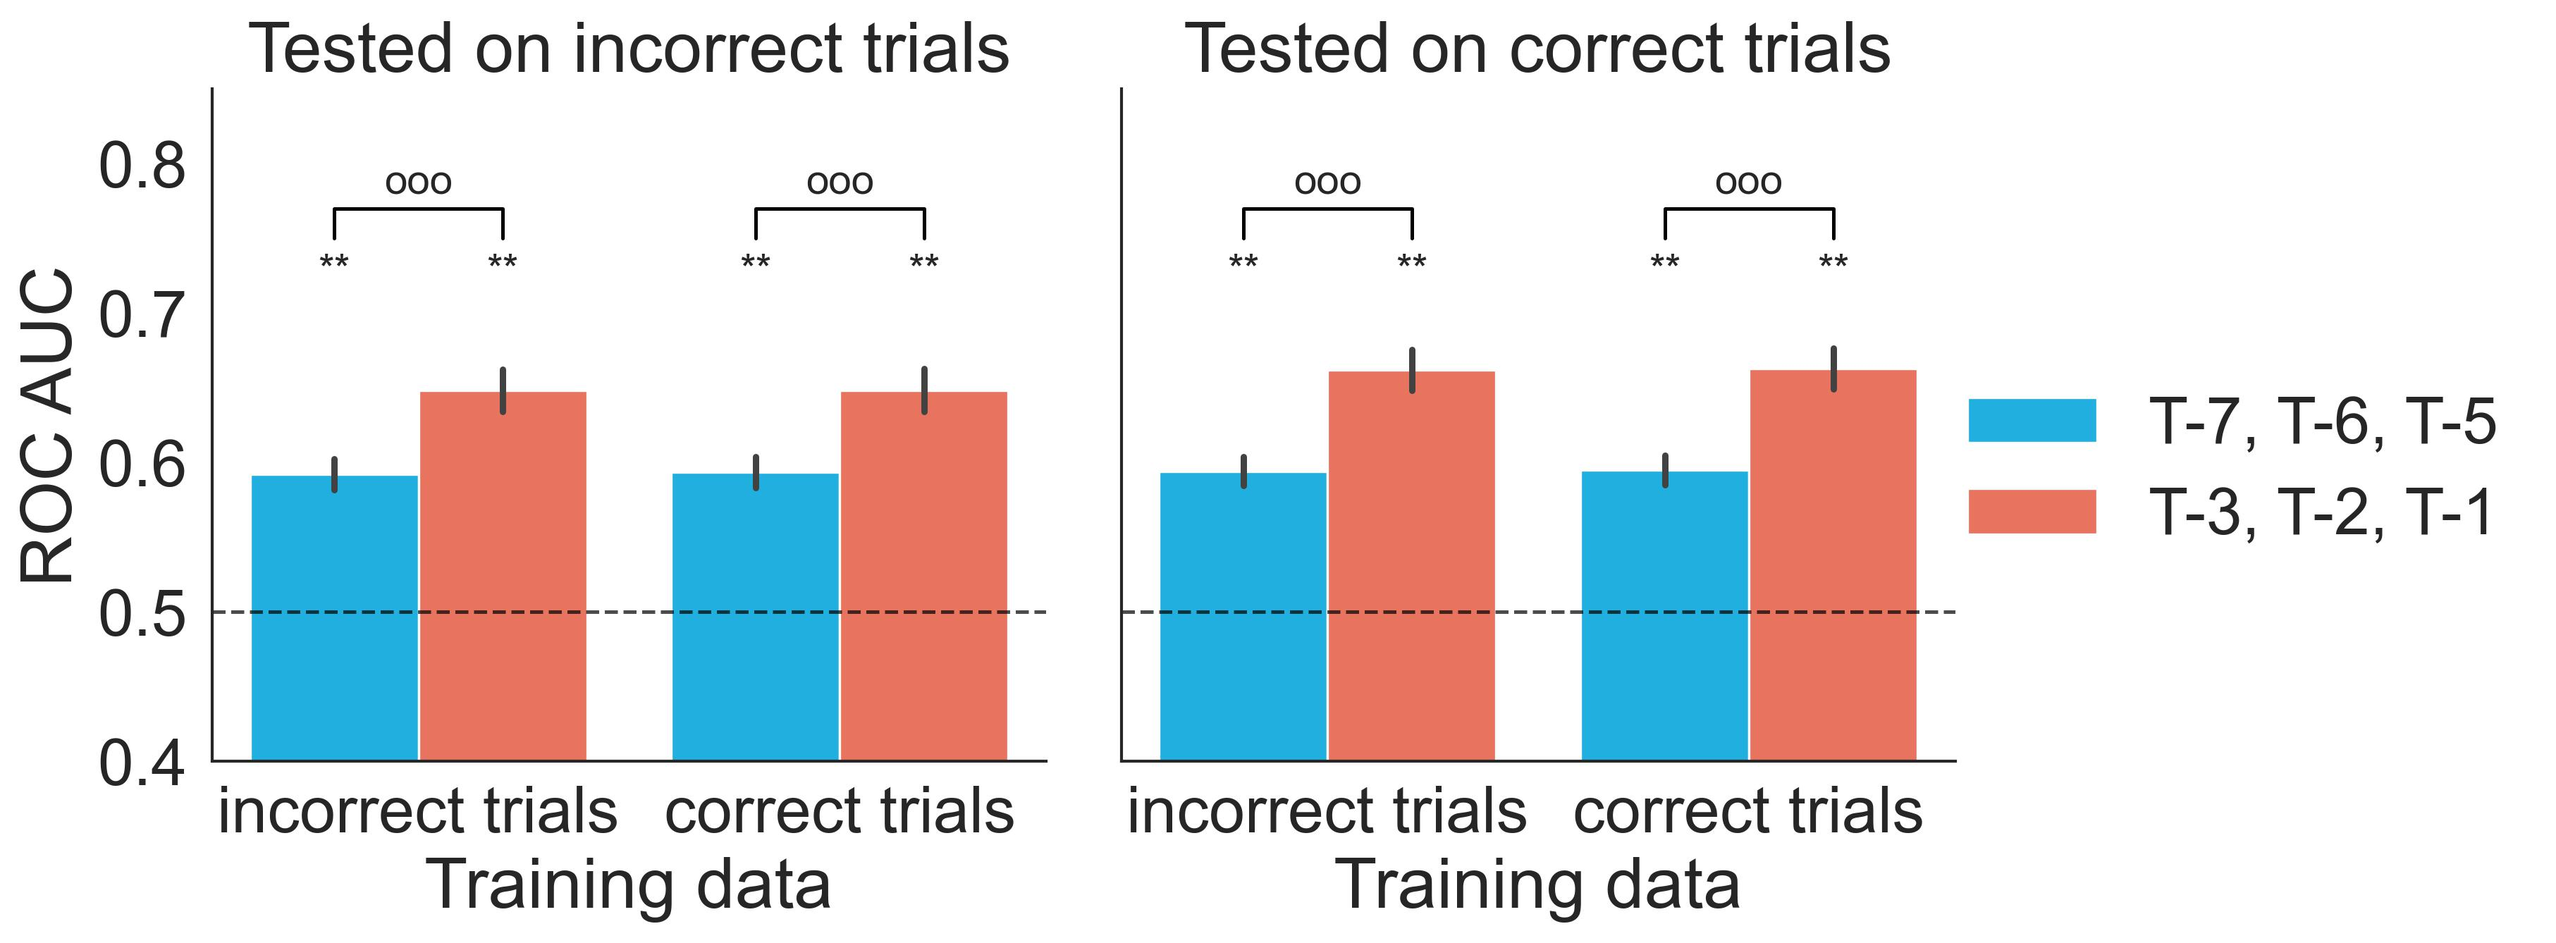
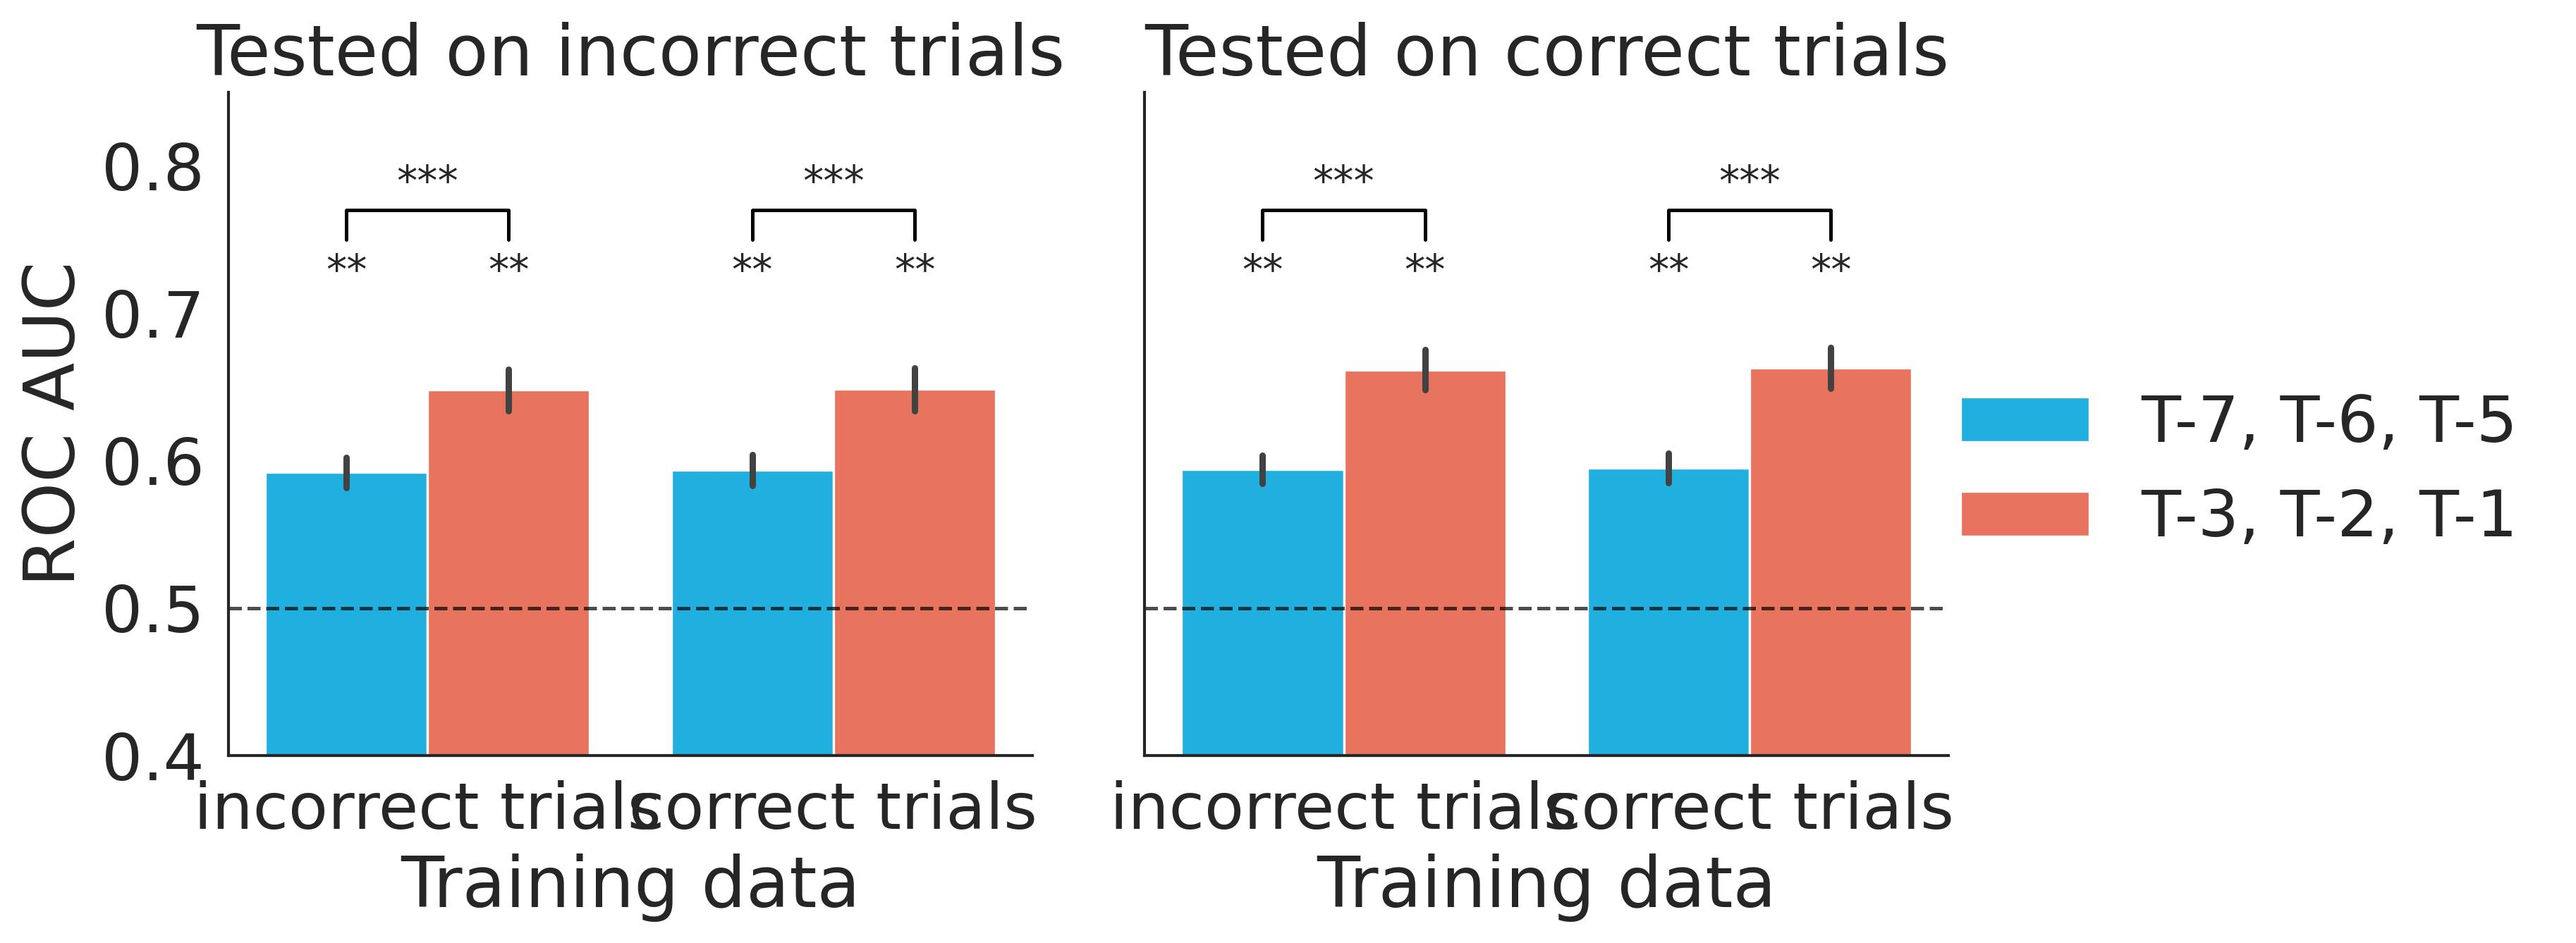
update

diff --git a/scripts/5.1.1.plot_results_review.py b/scripts/5.1.1.plot_results_review.py
@@ -10,7 +10,6 @@ import os,gc,re
 import numpy as np
 import pandas as pd
 import seaborn as sns
-import seaborn.objects as so
 
 from glob import glob
 from matplotlib import pyplot as plt
@@ -24,6 +23,13 @@ palette = ['deepskyblue','tomato']
 x_order = ['confidence','accuracy',
            'confidence-accuracy','RT',
            'confidence-RT','all']
+feature_type_dict = {'confidence':'Confidence',
+                     'accuracy':'Accuracy',
+                     'confidence-accuracy':'Confidence-accuracy',
+                     'RT':'RT',
+                     'confidence-RT':'Confidence-RT',
+                     'all':'All'}
+x_map_order = [feature_type_dict[item] for item in x_order]
 model_names = ['Support Vector Machine',
                'Random Forest',
               #'Recurrent Neural Network',
@@ -37,7 +43,9 @@ ylim_dict = {'regression':(-.85,.5),
              'classification':(0,1.)}
 y_annotation = dict(regression = .45,
                     classification = .875)
-
+figure_dir = '../figures/final_figures'
+if not os.path.exists(figure_dir):
+    os.mkdir(figure_dir)
 def get_model_type(x:str):
     """
     
@@ -339,7 +347,7 @@ def figure2(working_data_past:list,
                     [.75,.77,.77,.75],
                     color = 'black',
                     )
-            ax.annotate('ooo',
+            ax.annotate('***',
                         xy = (x_center,.78),
                         ha = 'center',
                         fontsize = 14,
@@ -528,9 +536,9 @@ def figure5(working_dir:str,
                 col_axes.annotate(row['stars'],
                                   xy = (x,.68),
                                   ha = 'center',
-                                  fontsize = 14)
+                                  fontsize = 18)
             for ii,row in df_paired_sub.reset_index().iterrows():
-                sign = row['stars'].replace('*','o') if '*' in row['stars'] else row['stars']
+                sign = row['stars'] if '*' in row['stars'] else row['stars']
                 col_axes.plot([ii - .2,
                                ii - .2,
                                ii + .2,
@@ -541,7 +549,7 @@ def figure5(working_dir:str,
                 col_axes.annotate(sign,
                                   xy = (ii,.78),
                                   ha = 'center',
-                                  fontsize = 14,
+                                  fontsize = 18,
                                   )
     g.savefig(os.path.join(figure_dir,
                            f'{figure_name} {model_name}.jpg'),
@@ -601,8 +609,6 @@ def reviewer_plot(working_dir:str,
     return g,df_score,df_stat
 
 if __name__ == "__main__":
-    figure_dir = '../figures/final_figures'
-    
     """
     plot the RF model results as the main results
     """
@@ -869,7 +875,267 @@ if __name__ == "__main__":
     g,df_clf,df_stat_clf = reviewer_plot(working_dir,
                                          major_type,
                                          'supfigure6.2')
-
-
-
-
+    df_clf_original = df_clf.copy()
+    df_stat_clf_original = df_stat_clf.copy()
+    """
+    figure 7
+    """
+    model_name_select = 'Random Forest'
+    df_clf = df_clf_original[df_clf_original['model_name'] == model_name_select]
+    df_clf['feature_type'] = df_clf['feature_type'].map(feature_type_dict)
+    df_stat_clf = df_stat_clf_original[df_stat_clf_original['model_name'] == model_name_select]
+    
+    g = sns.catplot(x = 'feature_type',
+                    y = 'score',
+                    order = x_map_order,
+                    row = 'target_data',
+                    row_order = CD_order,
+                    col = 'source_data',
+                    col_order = CD_order,
+                    kind = 'bar',
+                    aspect = 1.5,
+                    data = df_clf,
+                    )
+    (g.set_axis_labels('','ROC AUC',
+                       fontsize = 32)
+      .set(ylim = (0.4,1.0))
+      .set_titles(r'{col_name} $\rightarrow$ {row_name}',
+                  ))
+    for ax in g.axes.flatten():
+        ax.axhline(0.5,linestyle = '--',
+                   color = 'black',
+                   alpha = .7,
+                   )
+        ax.set_title(ax.get_title(),
+                     fontsize = 32)
+    for ax in g.axes[-1]:
+        ax.set_xticklabels(x_map_order,
+                           rotation = 90,
+                           fontsize = 24,
+                           )
+    xtick_order = list(g.axes[-1][-1].xaxis.get_majorticklabels())
+    for row_axes,row_condition in zip(g.axes,CD_order):
+        for col_ax,col_condition in zip(row_axes,CD_order):
+            df_stat_sub = df_stat_clf[np.logical_and(
+                        df_stat_clf['source_data'] == col_condition,
+                        df_stat_clf['target_data'] == row_condition,)]
+            for xtick_obj in xtick_order:
+                position        = xtick_obj.get_position()
+                xtick_label     = xtick_obj.get_text()
+                df_sub_sub      = df_stat_sub[df_stat_sub['feature_type'].apply(lambda x:x.lower()) == xtick_label.lower()]
+                
+                if '*' in df_sub_sub['stars'].values[0]:
+                    col_ax.annotate(df_sub_sub['stars'].values[0],
+                                    xy = (position[0],y_annotation[major_type]),
+                                    ha = 'center',
+                                    fontsize = 24)
+    g.savefig(os.path.join(figure_dir,
+                           'figure7.jpg'),
+              dpi = 300,
+              bbox_inches = 'tight')
+    """
+    comparison
+    """
+    feature_type_selected = 'Confidence'
+    n_permutation = int(1e4)
+    from joblib import Parallel,delayed
+    df_comparison = df_clf[df_clf['feature_type'] == feature_type_selected]
+    df_comparison['within_cross'] = df_comparison['source_data'] == df_comparison['target_data']
+    within = df_comparison[df_comparison['within_cross'] == True]['score'].values
+    cross  = df_comparison[df_comparison['within_cross'] != True]['score'].values
+    experiment_difference = within.mean() - cross.mean()
+    
+    def _process(within,cross):
+        data_concat = np.concatenate([within,cross])
+        np.random.shuffle(data_concat)
+        new_within = data_concat[:within.shape[0]]
+        new_cross  = data_concat[within.shape[0]:]
+        new_diff = new_within.mean() - new_cross.mean()
+        return new_diff
+    res = Parallel(n_jobs = -1,verbose = 1)(delayed(_process)(**{
+                    'within':within,
+                    'cross':cross}) for _ in range(n_permutation))
+    res = np.array(res)
+    pval = (np.sum(np.abs(res) >= np.abs(experiment_difference)) + 1) / (n_permutation + 1)
+    
+    import pingouin as pg
+    df_comparison['group'] = df_comparison['source_data'] + '_' + df_comparison['target_data']
+    aov = pg.anova(data = df_comparison,dv = 'score',between = ['group'],
+                   effsize='n2')
+    posthoc = pg.pairwise_tukey(data = df_comparison,dv = 'score',between = ['group'])
+    
+    """
+    supfigure 7
+    """
+    model_name_select = 'Support Vector Machine'
+    df_clf = df_clf_original[df_clf_original['model_name'] == model_name_select]
+    df_clf['feature_type'] = df_clf['feature_type'].map(feature_type_dict)
+    df_stat_clf = df_stat_clf_original[df_stat_clf_original['model_name'] == model_name_select]
+    
+    g = sns.catplot(x = 'feature_type',
+                    y = 'score',
+                    order = x_map_order,
+                    row = 'target_data',
+                    row_order = CD_order,
+                    col = 'source_data',
+                    col_order = CD_order,
+                    kind = 'bar',
+                    aspect = 1.5,
+                    data = df_clf,
+                    )
+    (g.set_axis_labels('','ROC AUC',
+                       fontsize = 32)
+      .set(ylim = (0.4,1.0))
+      .set_titles(r'{col_name} $\rightarrow$ {row_name}',
+                  ))
+    for ax in g.axes.flatten():
+        ax.axhline(0.5,linestyle = '--',
+                   color = 'black',
+                   alpha = .7,
+                   )
+        ax.set_title(ax.get_title(),
+                     fontsize = 32)
+    for ax in g.axes[-1]:
+        ax.set_xticklabels(x_map_order,
+                           rotation = 90,
+                           fontsize = 24,
+                           )
+    xtick_order = list(g.axes[-1][-1].xaxis.get_majorticklabels())
+    for row_axes,row_condition in zip(g.axes,CD_order):
+        for col_ax,col_condition in zip(row_axes,CD_order):
+            df_stat_sub = df_stat_clf[np.logical_and(
+                        df_stat_clf['source_data'] == col_condition,
+                        df_stat_clf['target_data'] == row_condition,)]
+            for xtick_obj in xtick_order:
+                position        = xtick_obj.get_position()
+                xtick_label     = xtick_obj.get_text()
+                df_sub_sub      = df_stat_sub[df_stat_sub['feature_type'].apply(lambda x:x.lower()) == xtick_label.lower()]
+                
+                if '*' in df_sub_sub['stars'].values[0]:
+                    col_ax.annotate(df_sub_sub['stars'].values[0],
+                                    xy = (position[0],y_annotation[major_type]),
+                                    ha = 'center',
+                                    fontsize = 24)
+    g.savefig(os.path.join(figure_dir,
+                           'supfigure7.jpg'),
+              dpi = 300,
+              bbox_inches = 'tight')
+    """
+    figure 8
+    """
+    dfs = {}
+    for folder_name in x_order:
+        working_data = glob(os.path.join(
+            working_dir.replace('replace',folder_name),'*.csv'))
+        
+        # load the data
+        temp = []
+        for f in working_data:
+            df = pd.read_csv(f).dropna()
+            df['model_name'] = df['best_params'].apply(get_model_type)
+            col_names = [item for item in df.columns if ('features' in item)]
+            if '_RNN_' in f:
+                for col_name in col_names:
+                    df[col_name] = df[col_name].apply(lambda x: -x)
+            temp.append(df)
+        dfs[folder_name] = pd.concat(temp)
+    
+    df_feature_importance = dfs['all'].copy()
+    df_feature_importance = df_feature_importance[df_feature_importance['model_name'] == 'Random Forest']
+    
+    df_feature_importance.columns = [
+    'fold', 'score', 'n_sample', 'source', 'sub_name', 'best_params',
+    'feature_type', 'source_data', 'target_data', 'special',
+    'Confidence T-7',
+    'Confidence T-6',
+    'Confidence T-5',
+    'Confidence T-4',
+    'Confidence T-3',
+    'Confidence T-2',
+    'Confidence T-1',
+    'Accuracy T-7',
+    'Accuracy T-6',
+    'Accuracy T-5',
+    'Accuracy T-4',
+    'Accuracy T-3',
+    'Accuracy T-2',
+    'Accuracy T-1',
+    'RT T-7','RT T-6','RT T-5','RT T-4',
+    'RT T-3','RT T-2','RT T-1', 'model_name']
+    
+    df_for_plot = pd.melt(df_feature_importance,
+                          id_vars = ['score',
+                                     'sub_name',
+                                     'source_data',
+                                     'target_data',],
+                          value_vars = ['Confidence T-7',
+                                        'Confidence T-6',
+                                        'Confidence T-5',
+                                        'Confidence T-4',
+                                        'Confidence T-3',
+                                        'Confidence T-2',
+                                        'Confidence T-1',
+                                        'Accuracy T-7',
+                                        'Accuracy T-6',
+                                        'Accuracy T-5',
+                                        'Accuracy T-4',
+                                        'Accuracy T-3',
+                                        'Accuracy T-2',
+                                        'Accuracy T-1',
+                                        'RT T-7','RT T-6','RT T-5','RT T-4',
+                                        'RT T-3','RT T-2','RT T-1'],
+                          )
+    df_for_plot.columns = ['score',
+                           'sub_name',
+                           'source_data',
+                           'target_data',
+                           'trial',
+                           'feature_importance',
+                           ]
+    df_for_plot[' '] = df_for_plot['trial'].apply(lambda x: x.split(' ')[0])
+    df_for_plot['x'] = df_for_plot['trial'].apply(lambda x: 7 - int(x[-1]))
+    
+    g = sns.catplot(x = 'x',
+                    y = 'feature_importance',
+                    hue = ' ',
+                    hue_order = ['Confidence','Accuracy','RT'],
+                    row = 'target_data',
+                    row_order = CD_order,
+                    col = 'source_data',
+                    col_order = CD_order,
+                    data = df_for_plot,
+                    aspect = 1.5,
+                    kind = 'bar',
+                    palette = ['deepskyblue','tomato','green'],
+                    )
+    for row_axes,target in zip(g.axes,CD_order):
+        for col_ax,source in zip(row_axes,CD_order):
+            df_linear = df_for_plot[np.logical_and(
+                        df_for_plot['source_data'] == source,
+                        df_for_plot['target_data'] == target)]
+            for feature_selected,color in zip(['Confidence','Accuracy','RT'],
+                                              ['deepskyblue','tomato','green']):
+                df_for_fit = df_linear[df_linear[' '] == feature_selected]
+                sns.regplot(x = 'x',
+                            y = 'feature_importance',
+                            data = df_for_fit,
+                            seed = 12345,
+                            color = color,
+                            ax = col_ax,
+                            scatter = False,
+                            )
+    (g.set_axis_labels('Trial','Feature importance',
+                       fontsize = 30)
+      .set_titles(r'{col_name} $\rightarrow$ {row_name}',
+                  ))
+    for ax in g.axes.flatten():
+        ax.set_title(ax.get_title(),
+                     fontsize = 32)
+    for ax in g.axes[-1]:
+        ax.set_xticklabels([f'T-{7-ii}' for ii in range(7)],
+                           fontsize = 28,
+                           )
+    g.savefig(os.path.join(figure_dir,
+                           'figure8.jpg'),
+              dpi = 300,
+              bbox_inches = 'tight')

diff --git a/scripts/5.2.1.further_permutation_test.py b/scripts/5.2.1.further_permutation_test.py
@@ -1,0 +1,40 @@
+#!/usr/bin/env python3
+# -*- coding: utf-8 -*-
+"""
+Created on Mon Feb  6 10:46:58 2023
+
+@author: nmei
+"""
+
+import os
+import numpy as np
+import pandas as pd
+from glob import glob
+
+if __name__ == "__main__":
+    df = dict(condition = [],
+              feature_space = [],
+              within_cross = [],
+              filename = [],
+              score = [],
+              model_name = [],
+              source = [],
+              target = [],
+              )
+    for condition in ['classification','regression']:
+        filenames = glob(os.path.join(f'../results/{condition}/*/*/*csv'))
+        for filename in filenames:
+            df_temp = pd.read_csv(filename).dropna(axis = 0)
+            df_temp['score'] = pd.to_numeric(df_temp['score'])
+            filename = filename.replace('cross_domain','cross-domain')
+            temp = filename.split('/')
+            asdf
+            df['condition'].append(condition)
+            df['feature_space'].append(temp[3])
+            df['within_cross'].append(temp[2])
+            df['filename'].append(temp[-1])
+            df['score'].append(df_temp['score'].mean())
+            df['model_name'].append(temp[-1].split('_')[1])
+            df['source'].append(temp[-1].split('_')[-2])
+            df['target'].append(temp[-1].split('_')[-1].split('.')[0])
+    df = pd.DataFrame(df)
